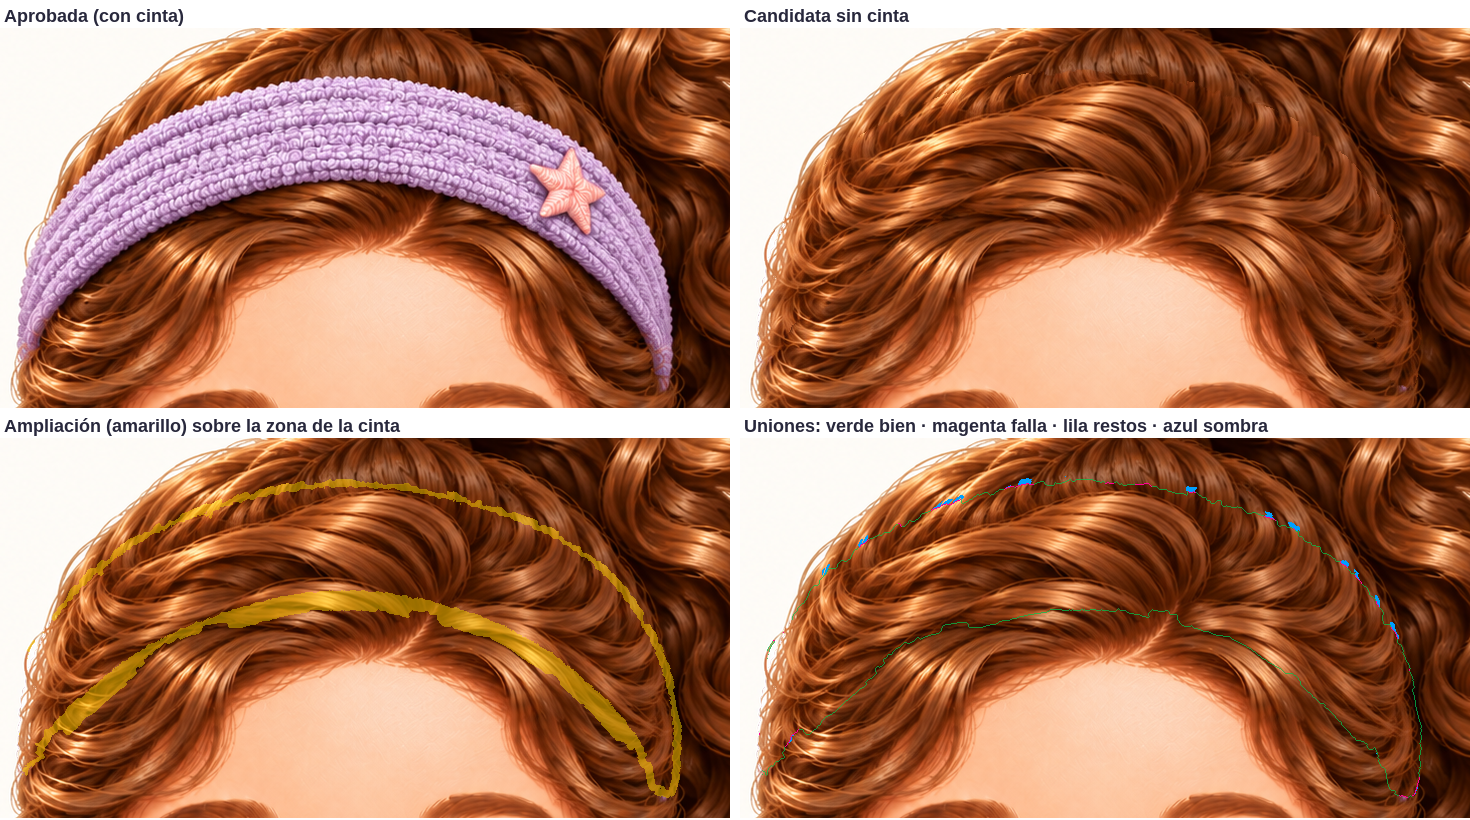
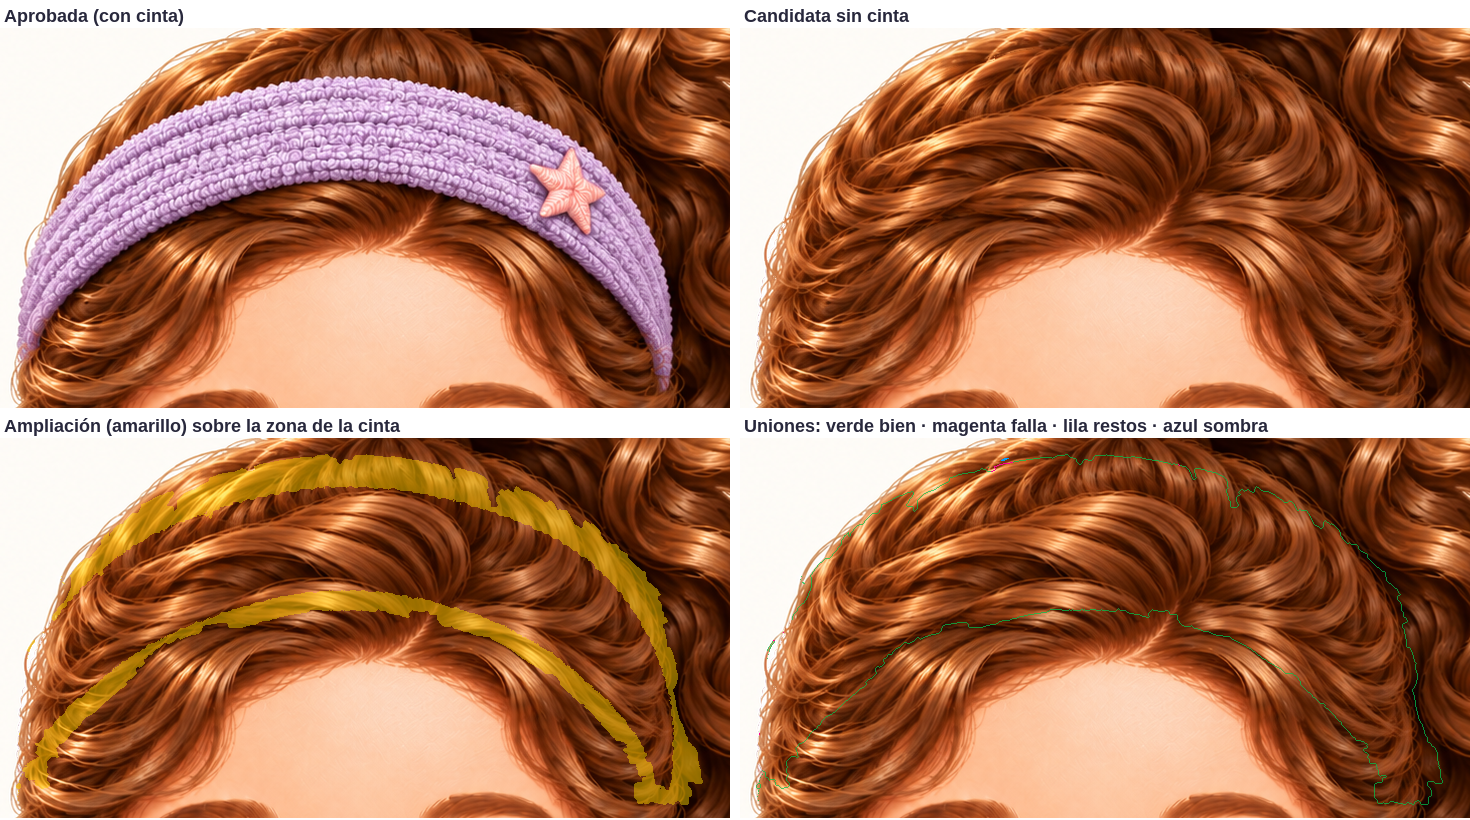
D-025: coleta sin cinta (32 px arriba y en las puntas; uniones limpias) como candidata en el visor
Capas aprobadas con cinta sin cambios. Pruebas congeladas, main y partidas sin
cambios.

Claude-Session: https://claude.ai/code/session_013yH6JXVk52qU5Y74NLTK6f

diff --git a/docs/propuestas/base-aprobada-d013-2026-10-14/visor/index.html b/docs/propuestas/base-aprobada-d013-2026-10-14/visor/index.html
@@ -52,6 +52,7 @@
 <div id="escena" aria-label="Muñeca">
   <div id="lienzo">
     <img id="c-coleta-detras" class="oculto" alt="" src="../../peinado-coleta-2026-10-16/capas/pelo-coleta-detras.png">
+    <img id="c-coleta-detras-sc" class="oculto" alt="" src="../../peinado-coleta-2026-10-16/capas/candidata-sin-cinta/pelo-coleta-sin-cinta-detras.png">
     <img id="c-pelo-detras" alt="" src="../pelo-borrador-d012/revision-localizada/variante-experimental/pelo-variante-sin-mechon-detras.png">
     <img id="c-base" alt="" src="../sin-ojos/base-sin-ojos-propuesta-v3.png">
     <img id="c-cejas" class="oculto" alt="" src="../cejas-colores/cejas-chocolate.png">
@@ -73,6 +74,7 @@
     <img id="c-bordes-pelo" class="oculto" alt="" src="../piel-tonos/dorado/bordes-pelo-castano.png">
     <img id="c-pelo-delante-c1" class="pelo-delante oculto" data-pelo="c1" alt="" src="../pelo-borrador-d012/revision-localizada/variante-experimental/redistribucion-hombros/pelo-delante-mechones-c-chatgpt-1.png">
     <img id="c-coleta-delante" class="oculto" alt="" src="../../peinado-coleta-2026-10-16/capas/pelo-coleta-delante.png">
+    <img id="c-coleta-delante-sc" class="oculto" alt="" src="../../peinado-coleta-2026-10-16/capas/candidata-sin-cinta/pelo-coleta-sin-cinta-delante.png">
     <img id="c-coleta-cinta" class="oculto" alt="" src="../../peinado-coleta-2026-10-16/capas/cinta-coleta.png">
     <img id="c-acc-lazo" class="acc-pelo oculto" alt="" src="../../accesorios-2026-10-16/capas/capa-lazo.png">
     <img id="c-acc-flores" class="acc-pelo oculto" alt="" src="../../accesorios-2026-10-16/capas/capa-flores.png">
@@ -138,6 +140,11 @@
     <b>Peinado</b>
     <button data-peinado="melena" aria-pressed="true">Melena suelta (aprobada)</button>
     <button data-peinado="coleta" aria-pressed="false">Coleta rizada con cinta (aprobada)</button>
+  </div>
+  <div class="fila" id="fila-cinta" hidden>
+    <b>Cinta</b>
+    <button data-cinta="si" aria-pressed="true">Con cinta (aprobada)</button>
+    <button data-cinta="no" aria-pressed="false">Sin cinta (candidata)</button>
   </div>
   <div class="fila">
     <b>Color de pelo</b>
@@ -442,10 +449,25 @@
 
   // --- peinado (D-025): la coleta con cinta es candidata; por ahora solo con piel clara y pelo castaño, sin accesorio de
   // pelo ni corona (están colocados para la melena). La cinta todavía no se puede quitar: falta el pelo de debajo. --------
-  var peinado = 'melena';
+  var peinado = 'melena', conCinta = true;
+  function mostrarColeta() {   // con cinta: capas aprobadas; sin cinta: capas candidatas (pelo completo bajo la cinta)
+    var col = peinado === 'coleta';
+    document.getElementById('c-coleta-detras').classList.toggle('oculto', !col || !conCinta);
+    document.getElementById('c-coleta-delante').classList.toggle('oculto', !col || !conCinta);
+    document.getElementById('c-coleta-cinta').classList.toggle('oculto', !col || !conCinta);
+    document.getElementById('c-coleta-detras-sc').classList.toggle('oculto', !col || conCinta);
+    document.getElementById('c-coleta-delante-sc').classList.toggle('oculto', !col || conCinta);
+    document.getElementById('fila-cinta').hidden = !col;
+  }
+  document.querySelectorAll('[data-cinta]').forEach(function (b) {
+    b.addEventListener('click', function () {
+      conCinta = b.dataset.cinta === 'si'; mostrarColeta();
+      document.querySelectorAll('[data-cinta]').forEach(function (o) { o.setAttribute('aria-pressed', String(o === b)); });
+    });
+  });
   function elegirPeinado(p) {
     peinado = p; var col = p === 'coleta';
-    ['c-coleta-detras', 'c-coleta-delante', 'c-coleta-cinta'].forEach(function (id) { document.getElementById(id).classList.toggle('oculto', !col); });
+    mostrarColeta();
     document.getElementById('c-pelo-detras').classList.toggle('oculto', col);
     if (col) {
       ['[data-piel="claro"]', '[data-pelo-color="castano"]', '[data-acc-pelo="ninguno"]', '[data-corona="no"]'].forEach(function (s) { document.querySelector(s).click(); });

diff --git a/docs/propuestas/peinado-coleta-2026-10-16/sin_cinta.py b/docs/propuestas/peinado-coleta-2026-10-16/sin_cinta.py
@@ -28,7 +28,8 @@ PT = CO.PT; MK = CO.MK
 
 A = CO.REF; Bn = AQUI / 'referencias' / 'referencia-coleta-sin-cinta.png'
 SALIDA = AQUI / 'capas' / 'candidata-sin-cinta'
-ABAJO, OTROS, TRANS = 20, 8, 2
+ABAJO, TRANS = 20, 2
+OTROS = int(sys.argv[1]) if len(sys.argv) > 1 else 32         # franja arriba y en las puntas (px)
 
 
 def sha(p):

diff --git a/docs/HOJA_DE_RUTA.md b/docs/HOJA_DE_RUTA.md
@@ -8,7 +8,7 @@ haya commit, pruebas y aprobación. El estado real está en `docs/ESTADO_ACTUAL.
 | Alta | Vestir | Muñeca nueva D-013/D-014 con pelo, vestido, zapatos y corona | **Conjunto aprobado visualmente (D-016–D-018) y probado en el iPhone en una copia aislada (D-019).** Falta la resolución 2000 × 3500 y pasarlo al juego principal. | Capas a 2000 × 3500, catálogo del juego, pruebas y aprobación para activarla. |
 | Alta | Vestir | Ojos azul, verde y lila de fantasía | **Variantes aprobadas visualmente** (D-020); marrones por defecto; en la copia nueva `prueba-juego-d021` | Prueba en el iPhone → aprobación → juego principal. |
 | Alta | Vestir | Pelo castaño chocolate, rubio miel, castaño oscuro y pelirrojo jengibre | **Variantes y cejas a juego aprobadas visualmente** (D-022); castaño por defecto; en la copia nueva `prueba-juego-d023` | Prueba en el iPhone → aprobación → juego principal. |
-| Alta | Vestir | Peinado nuevo: coleta alta rizada con cinta deportiva | **Peinado y encaje aprobados visualmente** (D-025); falta el pelo bajo la cinta (guía para ChatGPT) y adaptar colores y pieles | Pelo completo bajo la cinta → colores de pelo y pieles → copia de prueba → iPhone. |
+| Alta | Vestir | Peinado nuevo: coleta alta rizada con cinta deportiva | **Peinado y encaje aprobados visualmente** (D-025); coleta sin cinta candidata en el visor (uniones limpias); falta adaptar colores y pieles | Aprobar sin cinta → colores de pelo y pieles → copia de prueba → iPhone. |
 | Media | Vestir | Accesorios de pelo: lazo, flores, mariposa, diadema, cinta, gorra, sombrero y gorrito | **Diseño aprobado** (D-024); lazo, flores y mariposa **aprobados visualmente** en el visor; diadema **aprobada visualmente**; cinta y gorros, pendientes de versión de frente | Versión de frente y encaje de los cuatro restantes → copia nueva de prueba del juego → prueba en el iPhone → aprobación. |
 | Media | Vestir | Pintacaras suave de estrellas y brillo | **Diseño y encaje aprobados visualmente** (D-021); en la copia nueva `prueba-juego-d021` | Prueba en el iPhone → aprobación → 2000 × 3500 y juego principal. |
 | Alta | Datos | Copia de seguridad de todos los datos | Botones «Guardar / Recuperar mi progreso» aprobados e integrados en `avatar-creador`; versión de pruebas preparada (`docs/VERSION_DE_PRUEBAS.md`). | Prueba de la propietaria en la app «PRUEBAS» del iPhone → publicar con aprobación → primera copia real de Amaia. |

diff --git a/docs/propuestas/peinado-coleta-2026-10-16/LEEME.md b/docs/propuestas/peinado-coleta-2026-10-16/LEEME.md
@@ -90,7 +90,22 @@ añadirá solo el pelo de esa zona. Hasta entonces, en el visor la coleta va **s
 - **Dónde falla** (`uniones-candidata.png`, en azul y magenta; `union-de-arriba-ampliada.png`, sin marcas): a lo largo del
   borde de arriba de la cinta queda una franja algo más oscura (la sombra de la cinta en la imagen aprobada) justo fuera
   de los 8 px; y en las dos puntas, cortes cortos donde los mechones no siguen.
-- **No se añade al visor** hasta decidir si se amplía más **arriba y en las puntas** (abajo ya está bien).
+- **16/10 (2): ampliación arriba y en las puntas.** Probado 14, 18, 22, 26, 32, 40 y 50 px (`sin_cinta.py <px>`):
+
+  | Arriba / puntas | Arriba | Puntas | Abajo | Sombra de la cinta |
+  | --- | --- | --- | --- | --- |
+  | 14 px | 13 % | 1,3 % | 0 % | 255 px |
+  | 26 px | 9 % | 1,1 % | 0 % | 84 px |
+  | **32 px (elegido)** | **3,7 %** | **1 %** | **0 %** | **14 px** |
+  | 40–50 px | 6–8 % | 1 % | 0 % | 5 px |
+
+  Con **32 px** la unión de arriba pasa por límites naturales entre rizos (en la base del moño) y la sombra de la cinta
+  desaparece; ampliar más no mejora. **Piel, cara y silueta sin tocar (0 px)**, sin restos lila, y el pelo aprobado fuera
+  de la zona igual. Revisado a tamaño de juego y ampliado, en fondo claro y oscuro
+  (`revision-tamano-juego-y-ampliada.png`).
+- **En el visor como candidata:** con la coleta aparece la fila «Cinta» (**Con cinta (aprobada)** por defecto · **Sin
+  cinta (candidata)**). Con la cinta puesta se usan las capas aprobadas, así que se ve exactamente igual que antes.
+  **Aprobación visual pendiente.**
 
 ## En el visor
 
@@ -100,6 +115,5 @@ otra piel, otro color, otro pelo de delante o un accesorio vuelve a la melena. E
 
 ## Pendiente
 
-- El pelo bajo la cinta: con la zona ampliada, la unión de abajo ya está limpia; decidir si se amplía más arriba y en las
-  puntas (ver «Candidata con la zona ampliada»).
+- Aprobación visual de la coleta sin cinta (candidata en el visor).
 - Después: colores de pelo, tonos de piel (bordes), accesorios y corona con la coleta; copia de prueba del juego; 2000 × 3500.

diff --git a/docs/MANUAL_PROYECTO.md b/docs/MANUAL_PROYECTO.md
@@ -61,7 +61,7 @@ El juego sigue usando la muñeca anterior (V2.1). Las decisiones completas está
 | Pintacaras «Estrellas y brillo» (capa aparte, solo los adornos) | D-021 | **Diseño y encaje aprobados visualmente**; se pone y se quita («Sin pintacaras» por defecto en el visor). |
 | Pelo castaño chocolate, rubio miel, castaño oscuro y pelirrojo jengibre (solo cambia el color de nuestras capas) | D-022 | **Variantes aprobadas visualmente**; castaño original por defecto. Cejas a juego **aprobadas visualmente** (por defecto en el visor; se conservan las originales). |
 | Piel claro (original), dorado, moreno y profundo (solo cambia la piel de nuestras piezas) | D-023 | **Tonos aprobados visualmente** (tras corregir el profundo); claro por defecto. |
-| Peinado nuevo: coleta alta rizada con cinta deportiva lila (la melena suelta se conserva) | D-025 | **Peinado y encaje aprobados visualmente**; melena por defecto; falta el pelo bajo la cinta (guía para ChatGPT) y adaptar colores y pieles. |
+| Peinado nuevo: coleta alta rizada con cinta deportiva lila (la melena suelta se conserva) | D-025 | **Peinado y encaje aprobados visualmente**; melena por defecto; sin cinta candidata en el visor (uniones limpias, aprobación pendiente); falta adaptar colores y pieles. |
 | Accesorios de pelo (segunda colección: lazo, flores, mariposa, diadema, cinta, gorra, sombrero, gorrito) | D-024 | **Diseño aprobado**; lazo, flores y mariposa **aprobados visualmente** en el visor («Sin accesorio» por defecto); diadema **aprobada visualmente** en el visor; cinta y gorros: guía para pedirlos de frente en ChatGPT. |
 | **Prueba aislada nueva: piel, pelo, cejas, ojos y pintacaras** (`docs/propuestas/prueba-juego-d023/`) | D-023 | Preparada y probada en Chromium (18/18); **pendiente de probar en el iPhone**. Datos propios (`d023:`). |
 | **Prueba aislada nueva: 4 colores de ojos + pintacaras** (`docs/propuestas/prueba-juego-d021/`) | D-021 | Preparada y probada en Chromium (19/19); **pendiente de probar en el iPhone**. Datos propios (`d021:`). |

diff --git a/docs/REGISTRO_CAMBIOS.md b/docs/REGISTRO_CAMBIOS.md
@@ -1,6 +1,24 @@
 # Registro de cambios
 
-### 2026-10-16 — D-025: candidata sin cinta con la zona ampliada (abajo limpia; arriba y puntas fallan, marcadas)
+### 2026-10-16 — D-025: coleta sin cinta (32 px arriba y en las puntas; uniones limpias) como candidata en el visor
+
+- **Solicitado por:** la propietaria.
+- **Rama y commit:** `avatar-creador`, este commit (sobre `3acef5b`, el de la entrada siguiente).
+- **Estado:** uniones limpias; candidata en el visor; aprobación visual pendiente. Nada activado ni publicado.
+- **Cambios:**
+  - `sin_cinta.py`: franja de arriba y de las puntas configurable (32 px por defecto); capas candidatas regeneradas en
+    `capas/candidata-sin-cinta/` (con `revision-tamano-juego-y-ampliada.png`).
+  - Visor: fila «Cinta» con la coleta («Con cinta (aprobada)» por defecto · «Sin cinta (candidata)»).
+  - D-025, `ESTADO_ACTUAL.md`, `MANUAL_PROYECTO.md`, `HOJA_DE_RUTA.md` y los `LEEME.md` del peinado y del visor.
+- **Resultado:** uniones que fallan: arriba 3,7 %, puntas 1 %, abajo 0 %; sombra de la cinta 14 px; sin restos lila; piel,
+  cara y silueta sin tocar; capas aprobadas sin cambios (con cinta se ve igual).
+- **Datos guardados afectados:** ninguno. Juego, `sw.js`, `main`, partidas y pruebas congeladas sin cambios.
+- **Pruebas:** `sin_cinta.py` con 14–50 px; revisión a tamaño de juego y ampliada; visor en Chromium (iPhone simulado)
+  con y sin cinta, parpadeo y vuelta a la melena, sin errores; a tamaño real (≤ 3). No probado en un iPhone real.
+- **¿`main` intacta?:** sí (`4bbf51d`, comprobado con `git ls-remote`).
+- **Cómo revertir:** `git revert` de este commit.
+
+### 2026-10-16 — `3acef5b` · D-025: candidata sin cinta con la zona ampliada (abajo limpia; arriba y puntas fallan, marcadas)
 
 - **Solicitado por:** la propietaria.
 - **Rama y commit:** `avatar-creador`, este commit (sobre `0b9e1bb`, el de la entrada siguiente).

diff --git a/docs/DECISIONES.md b/docs/DECISIONES.md
@@ -27,6 +27,11 @@
   piel ni silueta; **todavía fallan la de arriba (22 %) y las puntas (19 %)**: queda una franja algo más oscura (la sombra
   de la cinta) justo fuera de los 8 px permitidos arriba. **Marcado; no se añade al visor**, a la espera de decidir si se
   amplía más arriba y en las puntas. La coleta con cinta aprobada no cambia.
+- **16/10/2026 (5):** la propietaria da margen para ampliar arriba y en las puntas lo necesario, dentro del pelo, sin
+  tocar piel, cara, silueta ni la coleta con cinta aprobada. Probado 14, 18, 22, 26, 32, 40 y 50 px: **con 32 px las
+  uniones quedan limpias** (arriba 3,7 %, puntas 1 %, abajo 0 %; sombra de la cinta 14 px; sin restos lila; piel y
+  silueta sin tocar). Revisado a tamaño de juego y ampliado, en fondo claro y oscuro. **En el visor como candidata**
+  («Cinta: Con cinta (aprobada) · Sin cinta (candidata)»); **aprobación visual pendiente**.
 
 ## D-024 · Segunda colección de accesorios de pelo: diseño aprobado · 16/10/2026
 - **Decisión de la propietaria:** «Apruebo los ocho diseños: lazo, pasador de flores, mariposa lila, diadema de estrellas,

diff --git a/docs/ESTADO_ACTUAL.md b/docs/ESTADO_ACTUAL.md
@@ -118,8 +118,8 @@ en `docs/VERSION_DE_PRUEBAS.md`).
   arriba 32 %, puntas 52 %); marcadas en `…/peinado-coleta-2026-10-16/uniones/`. No integrado; pendiente decidir si se
   amplía la zona (unos 15–20 px por abajo).
 - **Candidata con la zona ampliada (16/10):** la unión de abajo queda limpia (0,5 %); arriba (22 %) y en las puntas (19 %)
-  todavía queda la sombra de la cinta, justo fuera de los 8 px permitidos. Marcado en
-  `…/capas/candidata-sin-cinta/`; no está en el visor.
+  todavía quedaba la sombra de la cinta. Con 32 px arriba y en las puntas **las uniones quedan limpias** (3,7 % / 1 % /
+  0 %), sin tocar piel, cara ni silueta. **En el visor como candidata** (fila «Cinta»); aprobación visual pendiente.
 
 **Manual al día (16/10):** `docs/MANUAL_PROYECTO.md` resume ahora el estado de la muñeca nueva, los enlaces de
 revisión y la forma de trabajar con el arte. Se actualiza en cada paso relevante (norma añadida a `CLAUDE.md`).

diff --git a/docs/propuestas/base-aprobada-d013-2026-10-14/visor/LEEME.md b/docs/propuestas/base-aprobada-d013-2026-10-14/visor/LEEME.md
@@ -120,3 +120,6 @@ castaño, sin accesorio ni corona; elegir otra cosa vuelve a la melena. Sin erro
 coincide con el montaje (≤ 3).
 **16/10/2026 (15) · D-025:** coleta con cinta aprobada visualmente: el botón pasa a «Coleta rizada con cinta (aprobada)».
 La melena suelta sigue por defecto; el resto del comportamiento no cambia.
+**16/10/2026 (16) · D-025:** con la coleta, fila «Cinta» («Con cinta (aprobada)» por defecto · «Sin cinta (candidata)»).
+Sin cinta se usan las capas candidatas con el pelo completo bajo la cinta; con la cinta, las aprobadas (igual que antes).
+Sin errores; a tamaño real coincide con el montaje en los dos casos (≤ 3).
